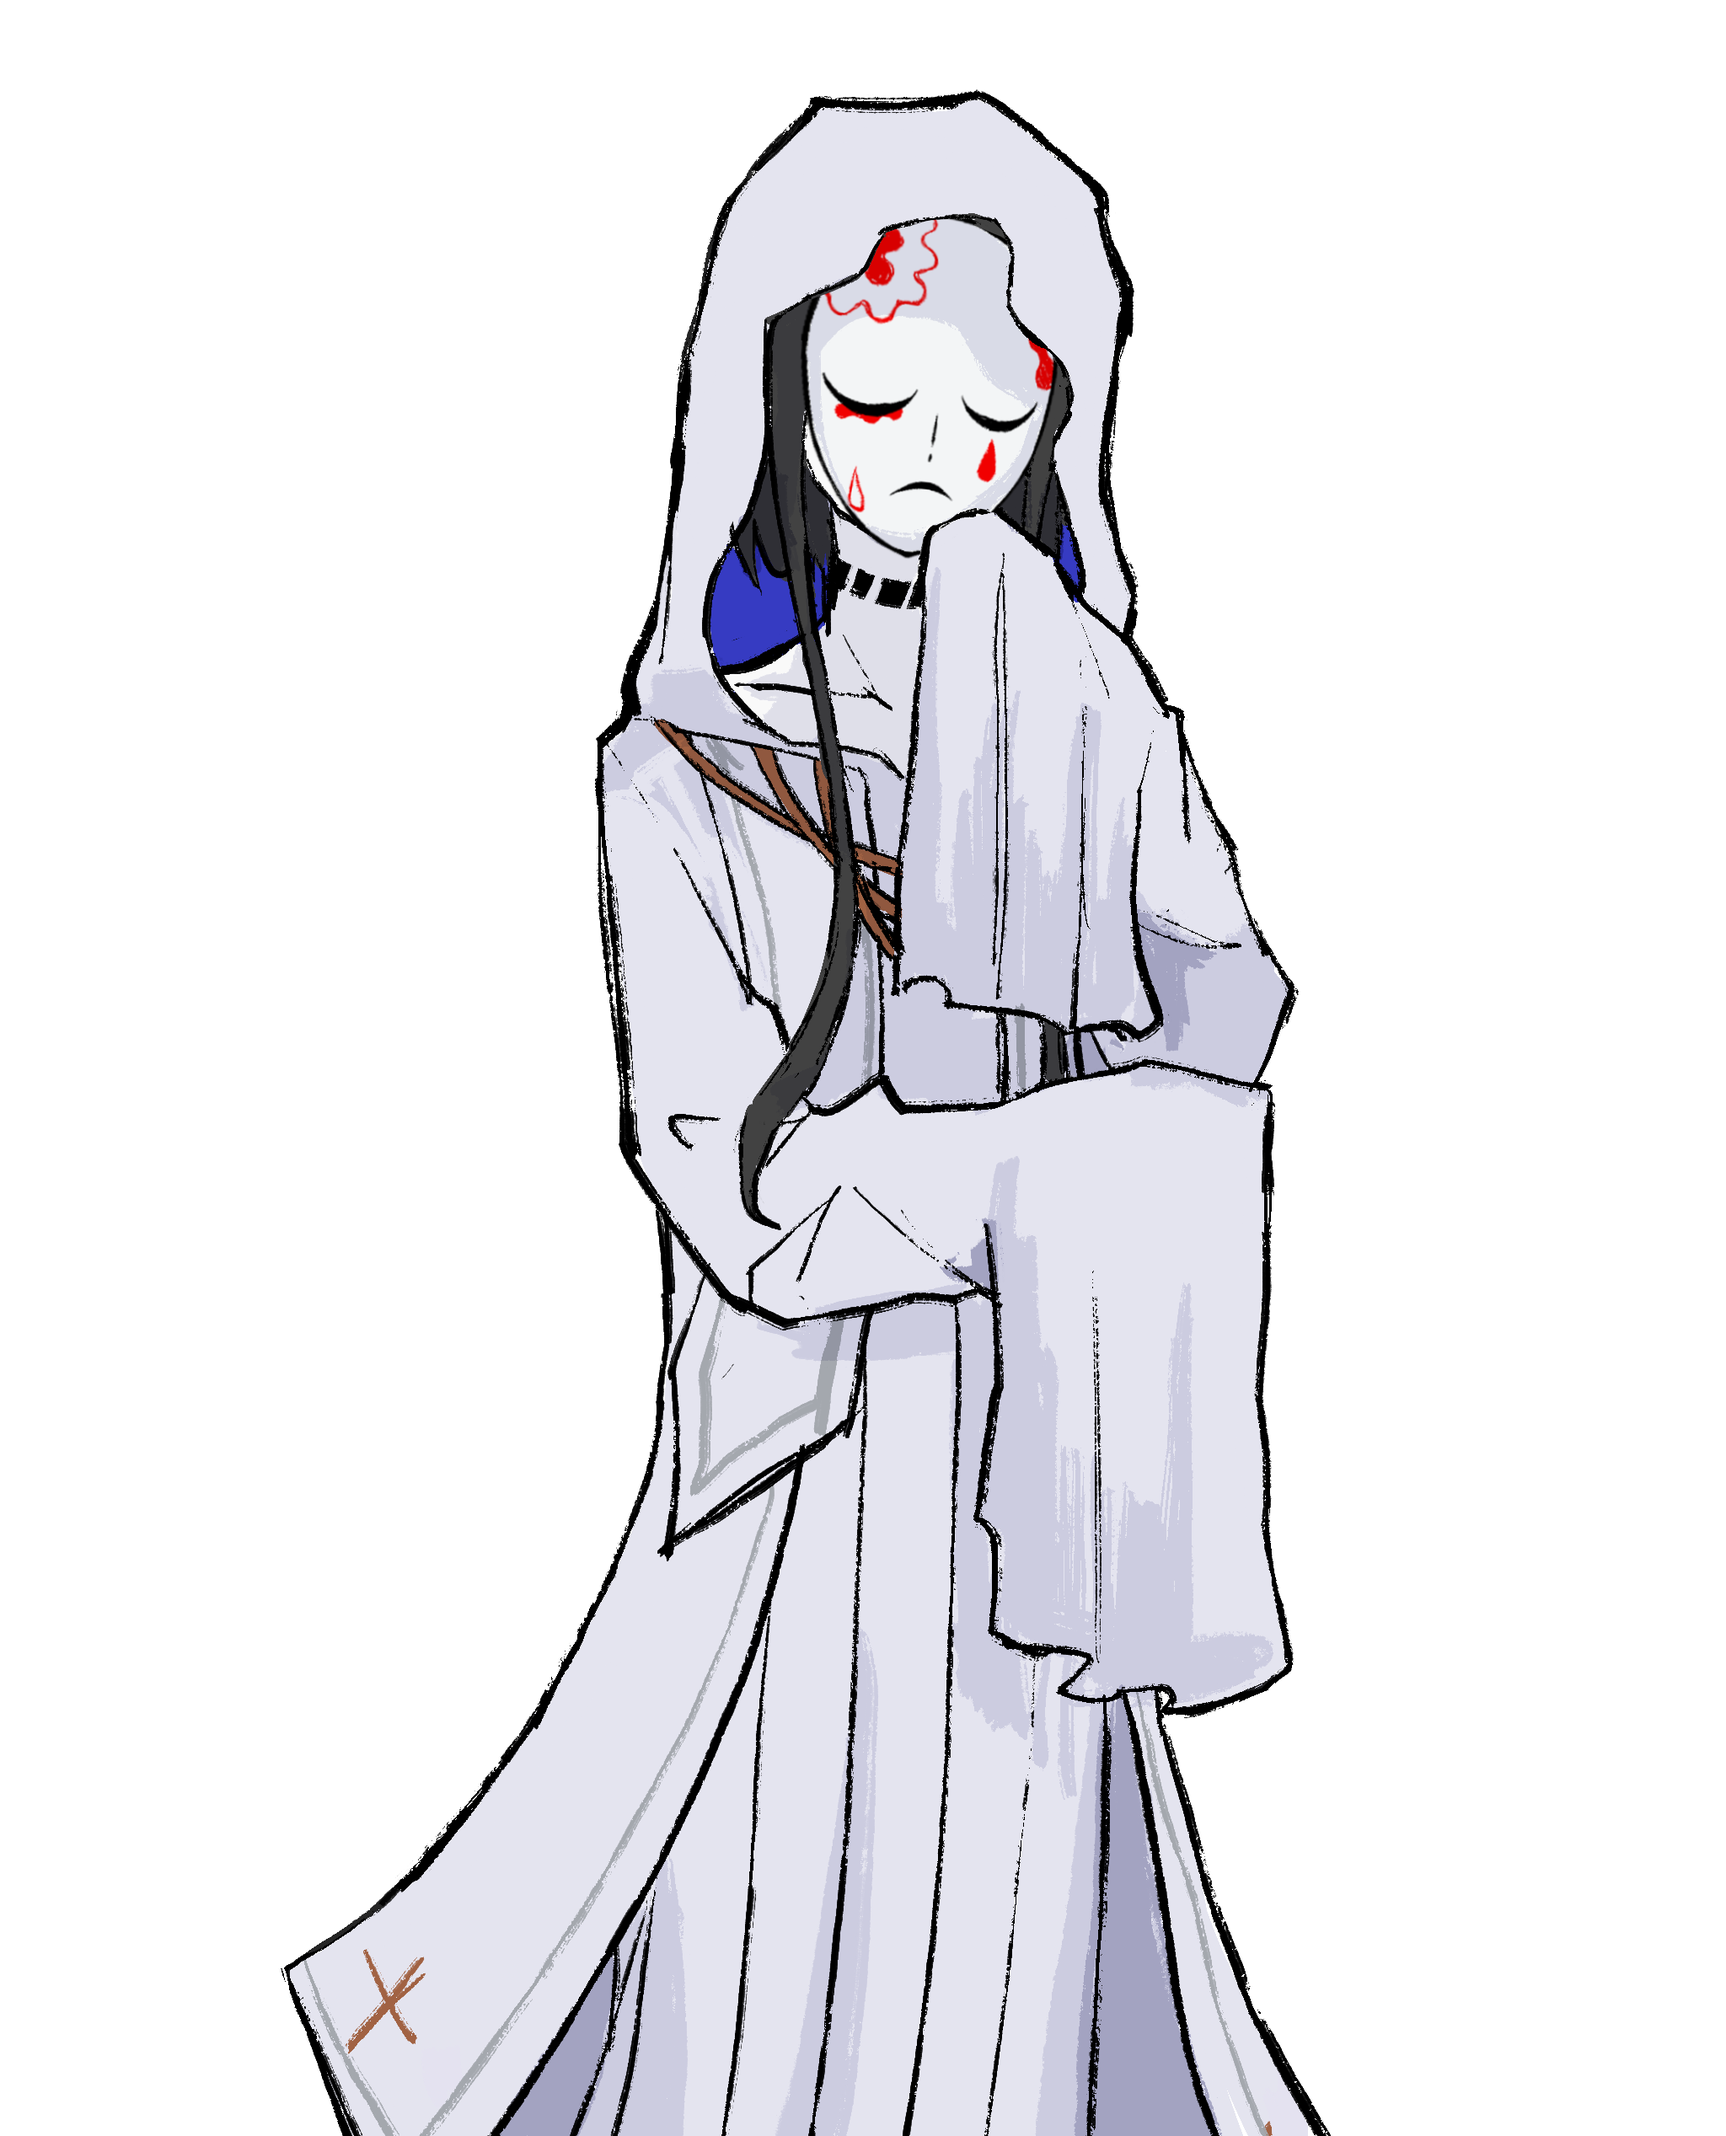
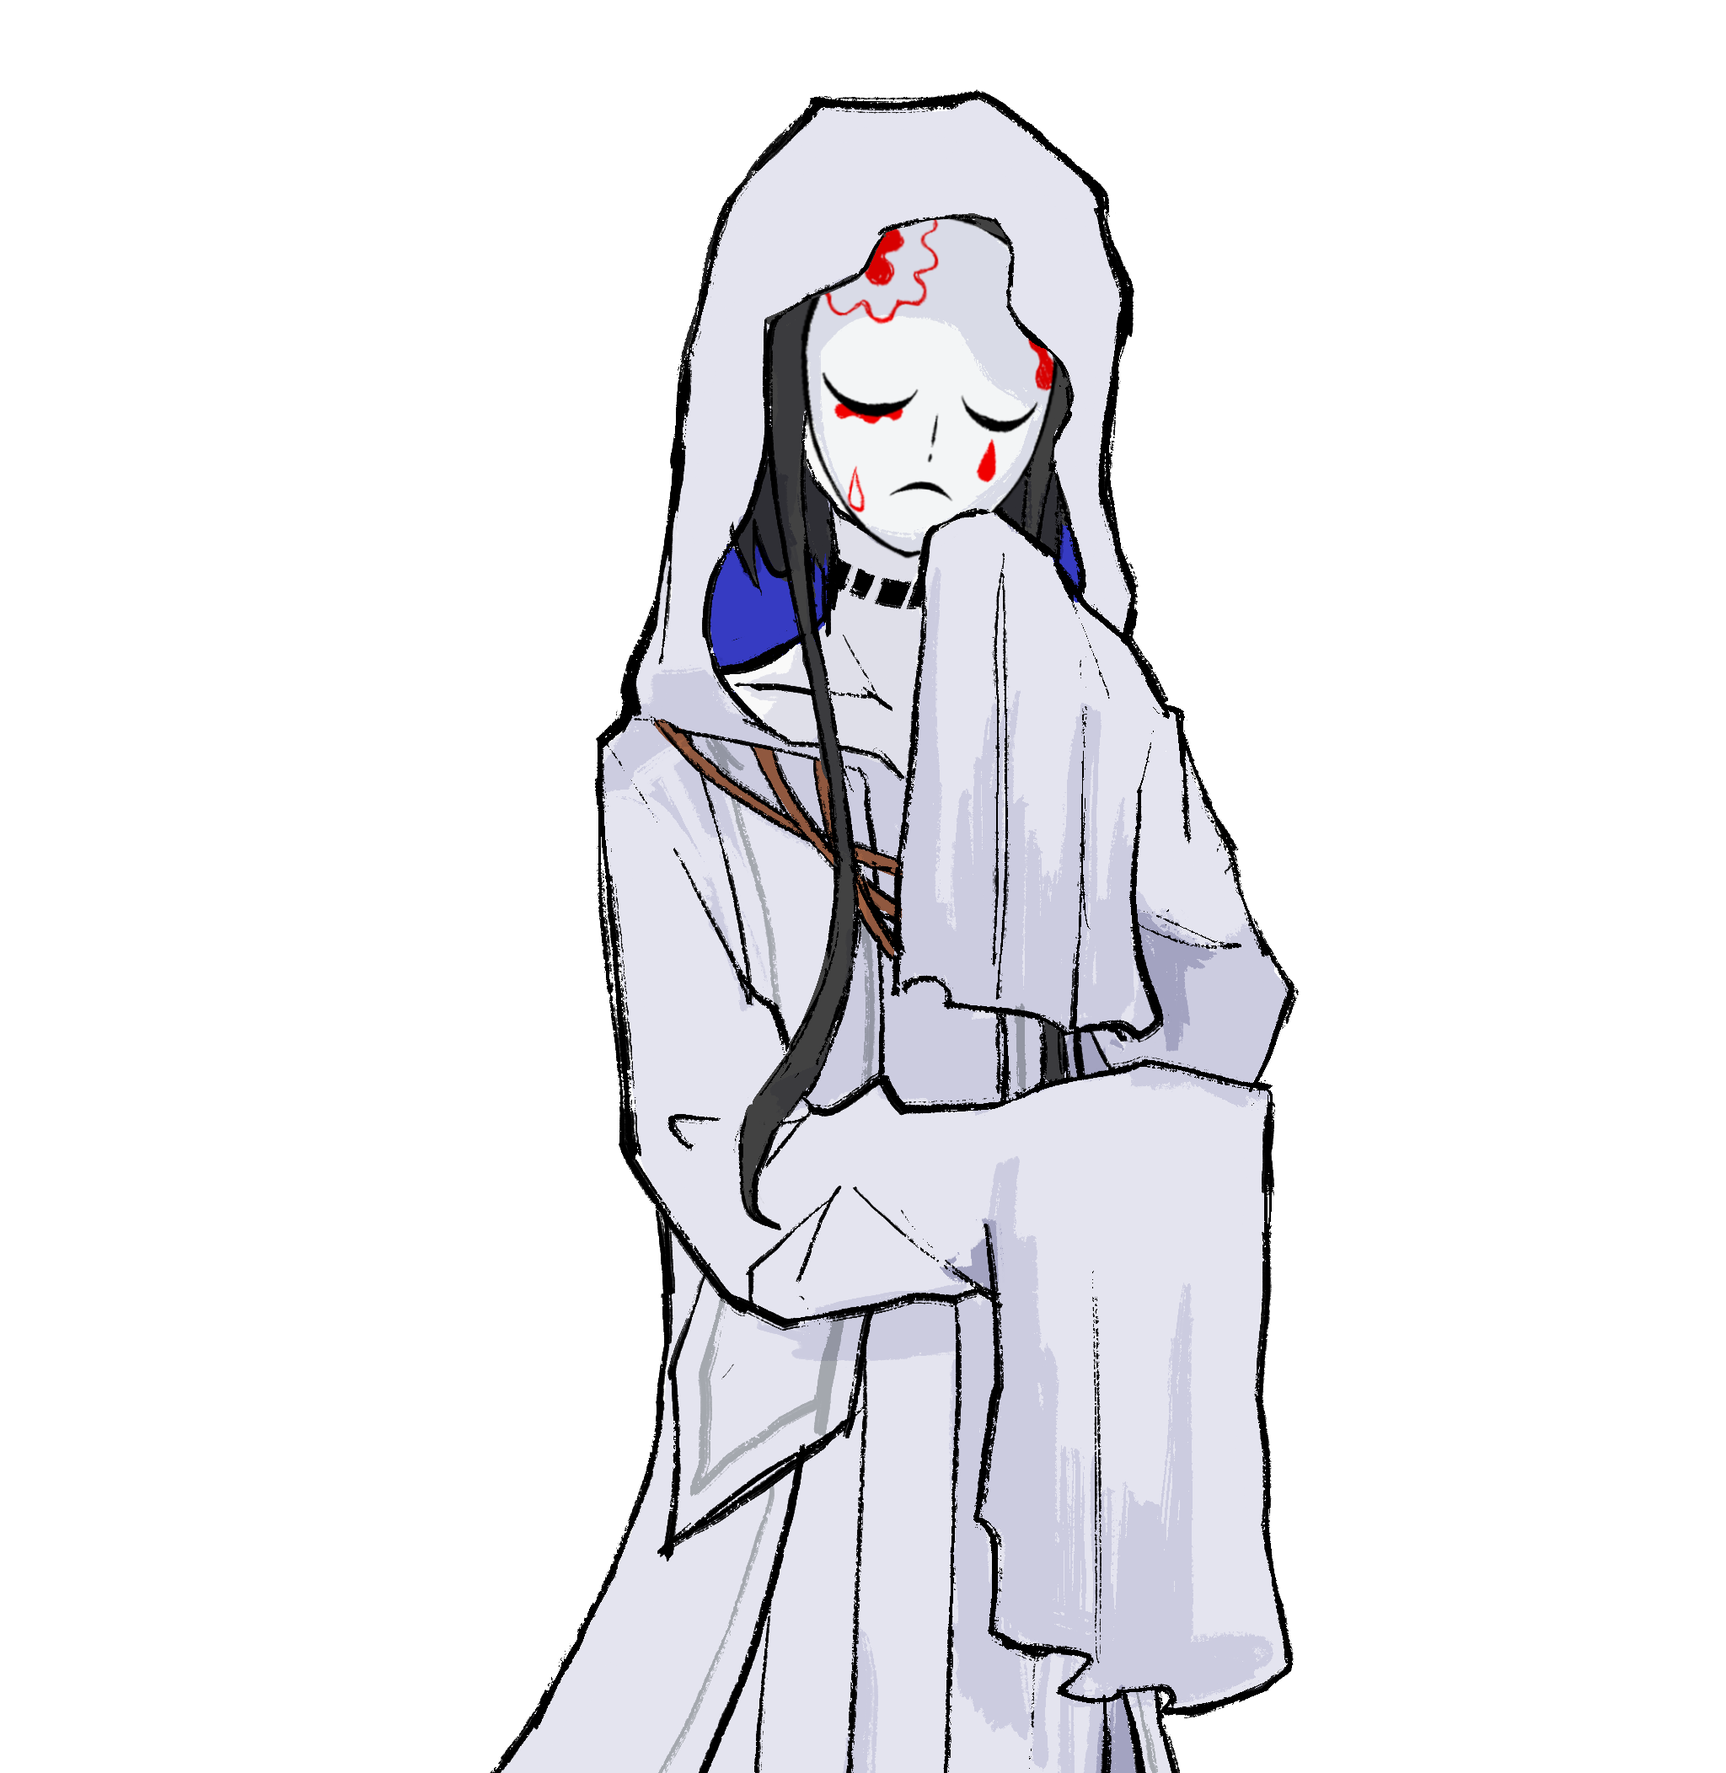
fix

Changed region(s): [[0.1562, 0.0309, 0.7812, 1.0]]

diff --git a/src/data/screenshots.ts b/src/data/screenshots.ts
@@ -6,8 +6,28 @@ export interface Screenshot {
 
 export const screenshots: Screenshot[] = [
   {
+    title: "タイトル画面",
+    imageUrl: "/images/screenshots/ss_title.png",
+  },
+  {
+    title: "ノベルパート",
+    imageUrl: "/images/screenshots/ss_novel.png",
+  },
+  {
     title: "戦闘画面",
     imageUrl: "/images/screenshots/ss_battle.png",
+  },
+  {
+    title: "カード詳細表示",
+    imageUrl: "/images/screenshots/ss_card_detail.png",
+  },
+  {
+    title: "ホーム画面",
+    imageUrl: "/images/screenshots/ss_home.png",
+  },
+  {
+    title: "アイテム獲得",
+    imageUrl: "/images/screenshots/ss_item_get.png",
   },
   {
     title: "プレイヤーの語り",
@@ -22,8 +42,8 @@ export const screenshots: Screenshot[] = [
     imageUrl: "/images/screenshots/ss_score_reveal.png",
   },
   {
-    title: "タイトル画面",
-    imageUrl: "/images/screenshots/ss_title.png",
+    title: "チュートリアル",
+    imageUrl: "/images/screenshots/ss_tutorial.png",
   },
 ];
 
